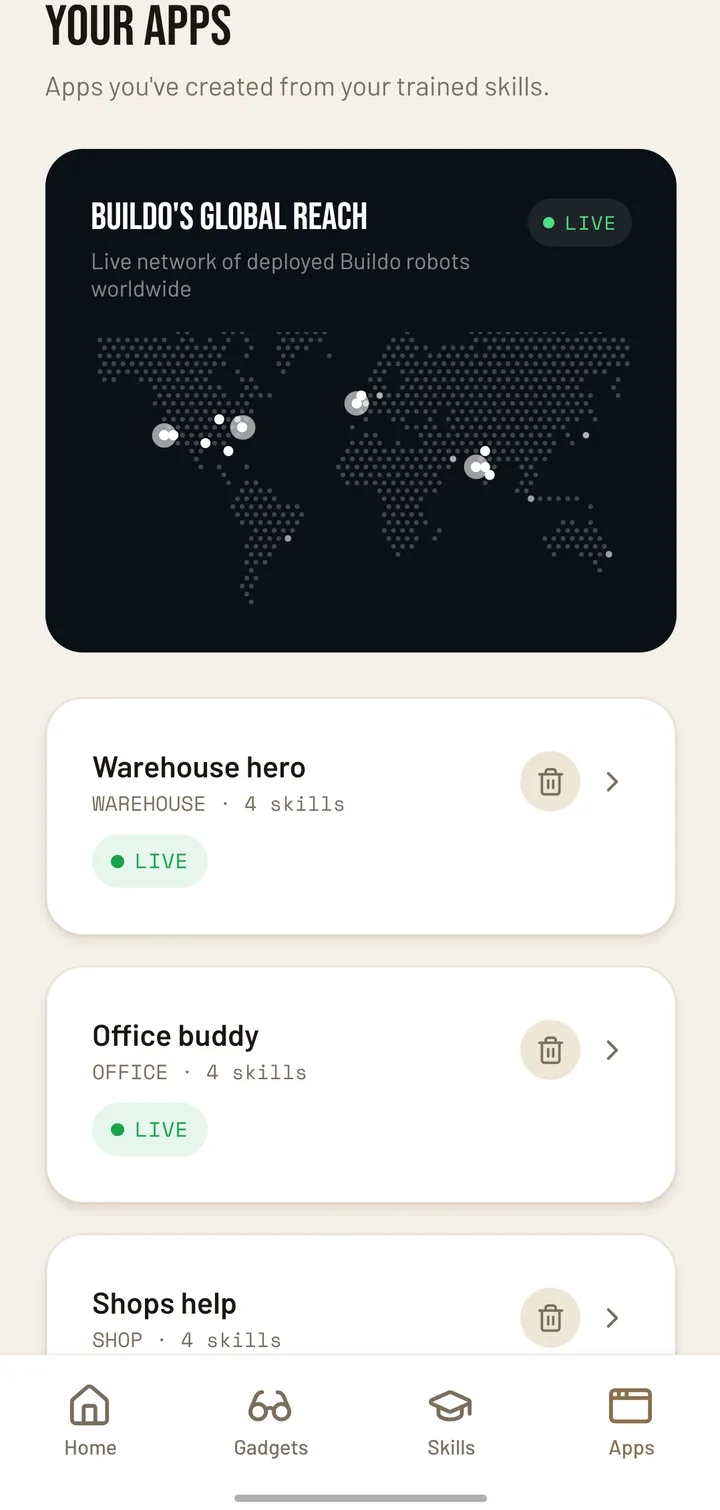
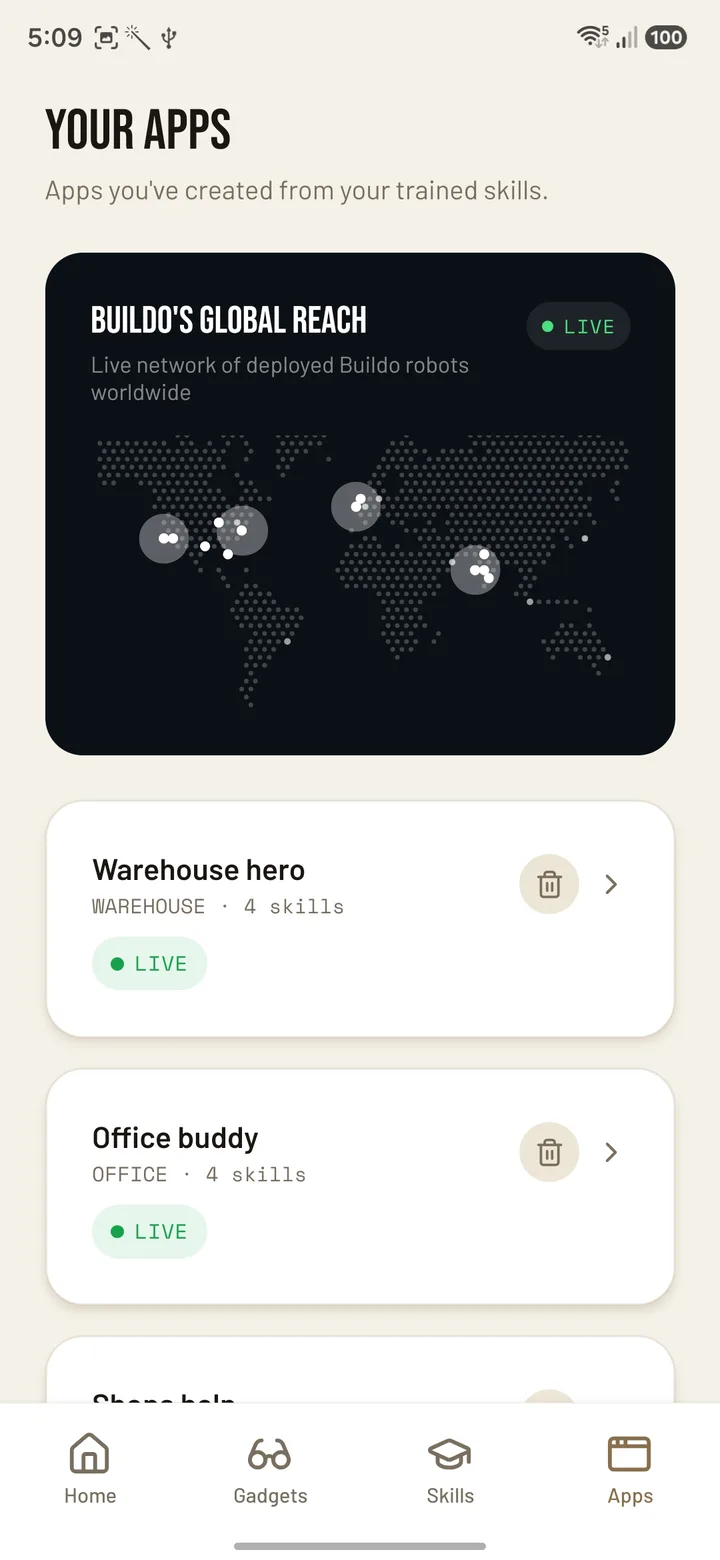
Update Buildo Creators app screenshots and Endless apps heading

diff --git a/src/routes/buildo-creators/+page.svelte b/src/routes/buildo-creators/+page.svelte
@@ -62,9 +62,9 @@
 			n: '02',
 			label: 'Build it skill by skill',
 			title: 'Train every<br /><span>skill</span>',
-			body: 'Each app is a short checklist of real tasks — deliver a meal tray, restock a supply cart, sanitise a surface. Put on the Creator Kit and record each one. Complete the list, and your app is ready to create.',
+			body: 'Each app is a short checklist of real tasks — scan and palletize a box, pick an item for an order, load a package at the dock. Put on the Creator Kit and record each one. Complete the list, and your app is ready to create.',
 			img: '/assets/creators-app-skills.webp',
-			alt: 'Buildo Creators app screen showing the four skills needed for a Hospitals app'
+			alt: 'Buildo Creators app screen showing the four skills needed for a Warehouses app'
 		},
 		{
 			n: '03',
@@ -311,7 +311,7 @@
 		{#each screens as sc, i (sc.n)}
 			<article class="bc-screen" class:flip={i % 2 === 1}>
 				<div class="bc-phone reveal">
-					<img src={sc.img} alt={sc.alt} loading="lazy" width="720" height="1490" />
+					<img src={sc.img} alt={sc.alt} loading="lazy" width="720" height="1560" />
 				</div>
 				<div class="bc-screen-copy reveal" style="transition-delay:0.12s">
 					<span class="bc-screen-n">{sc.n}</span>
